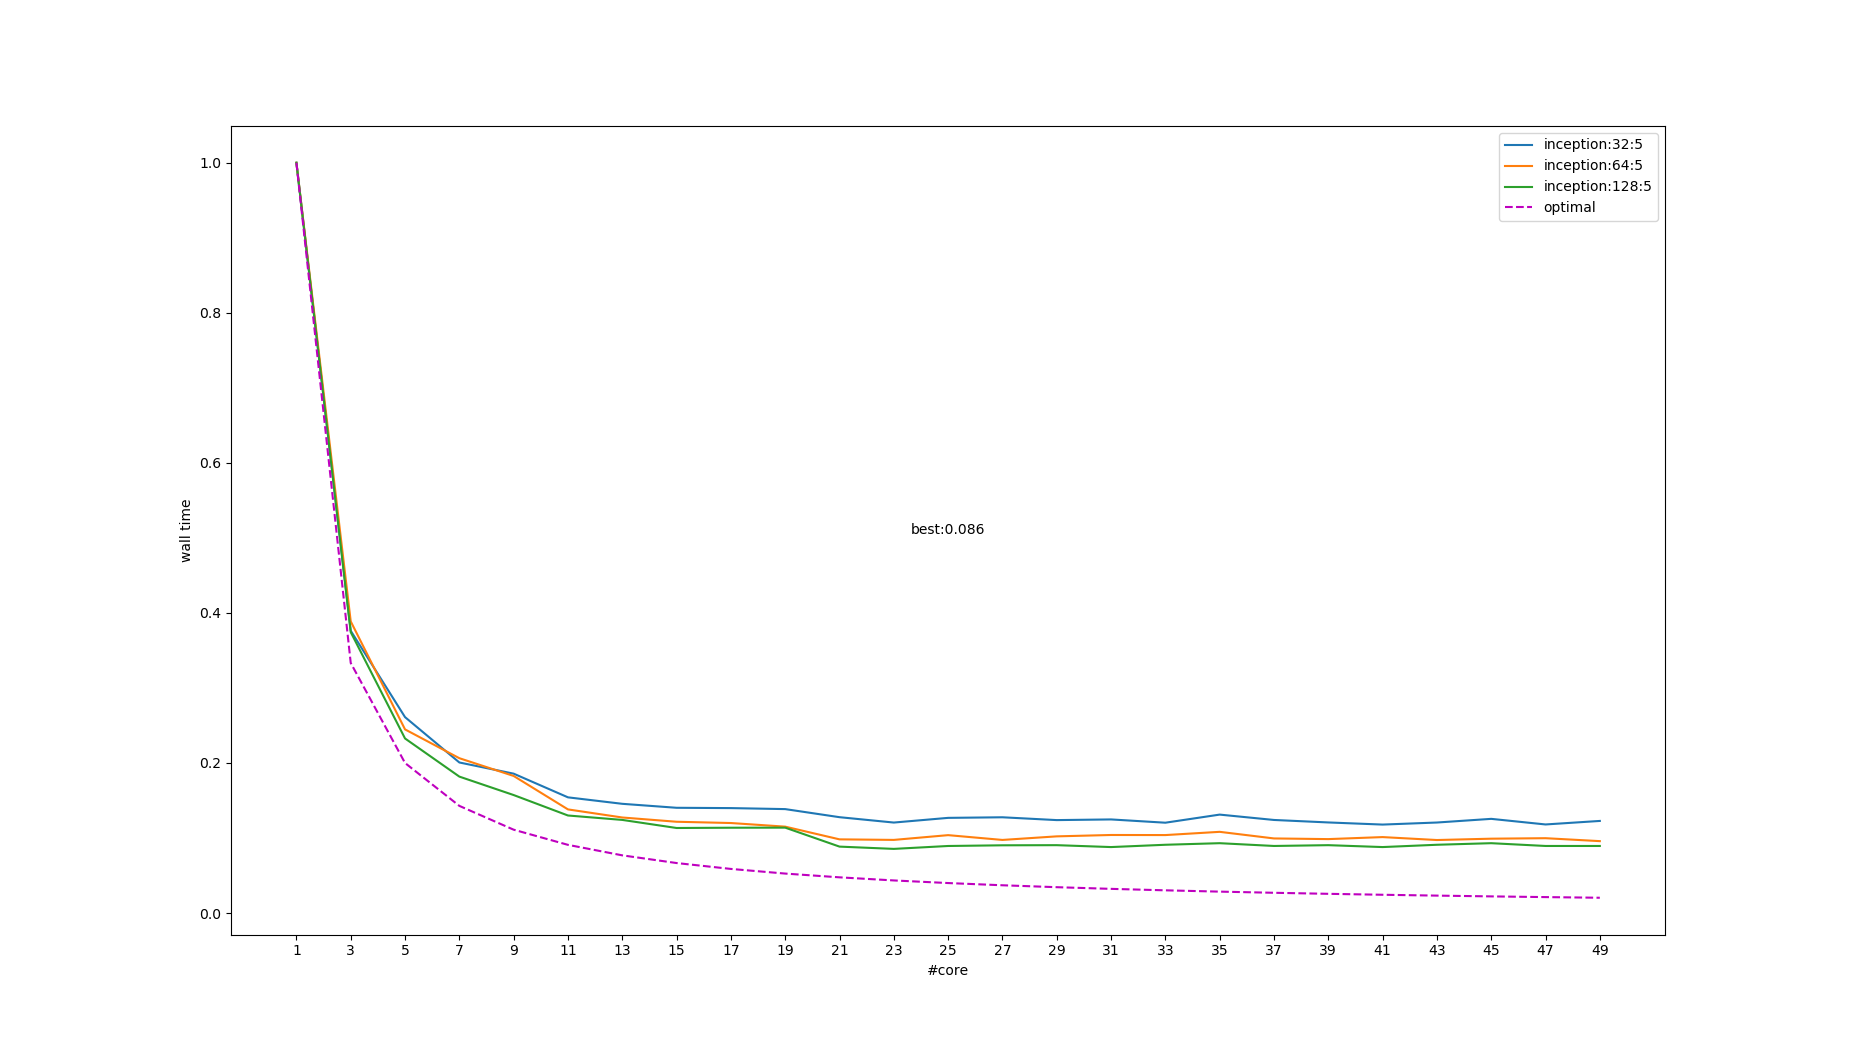
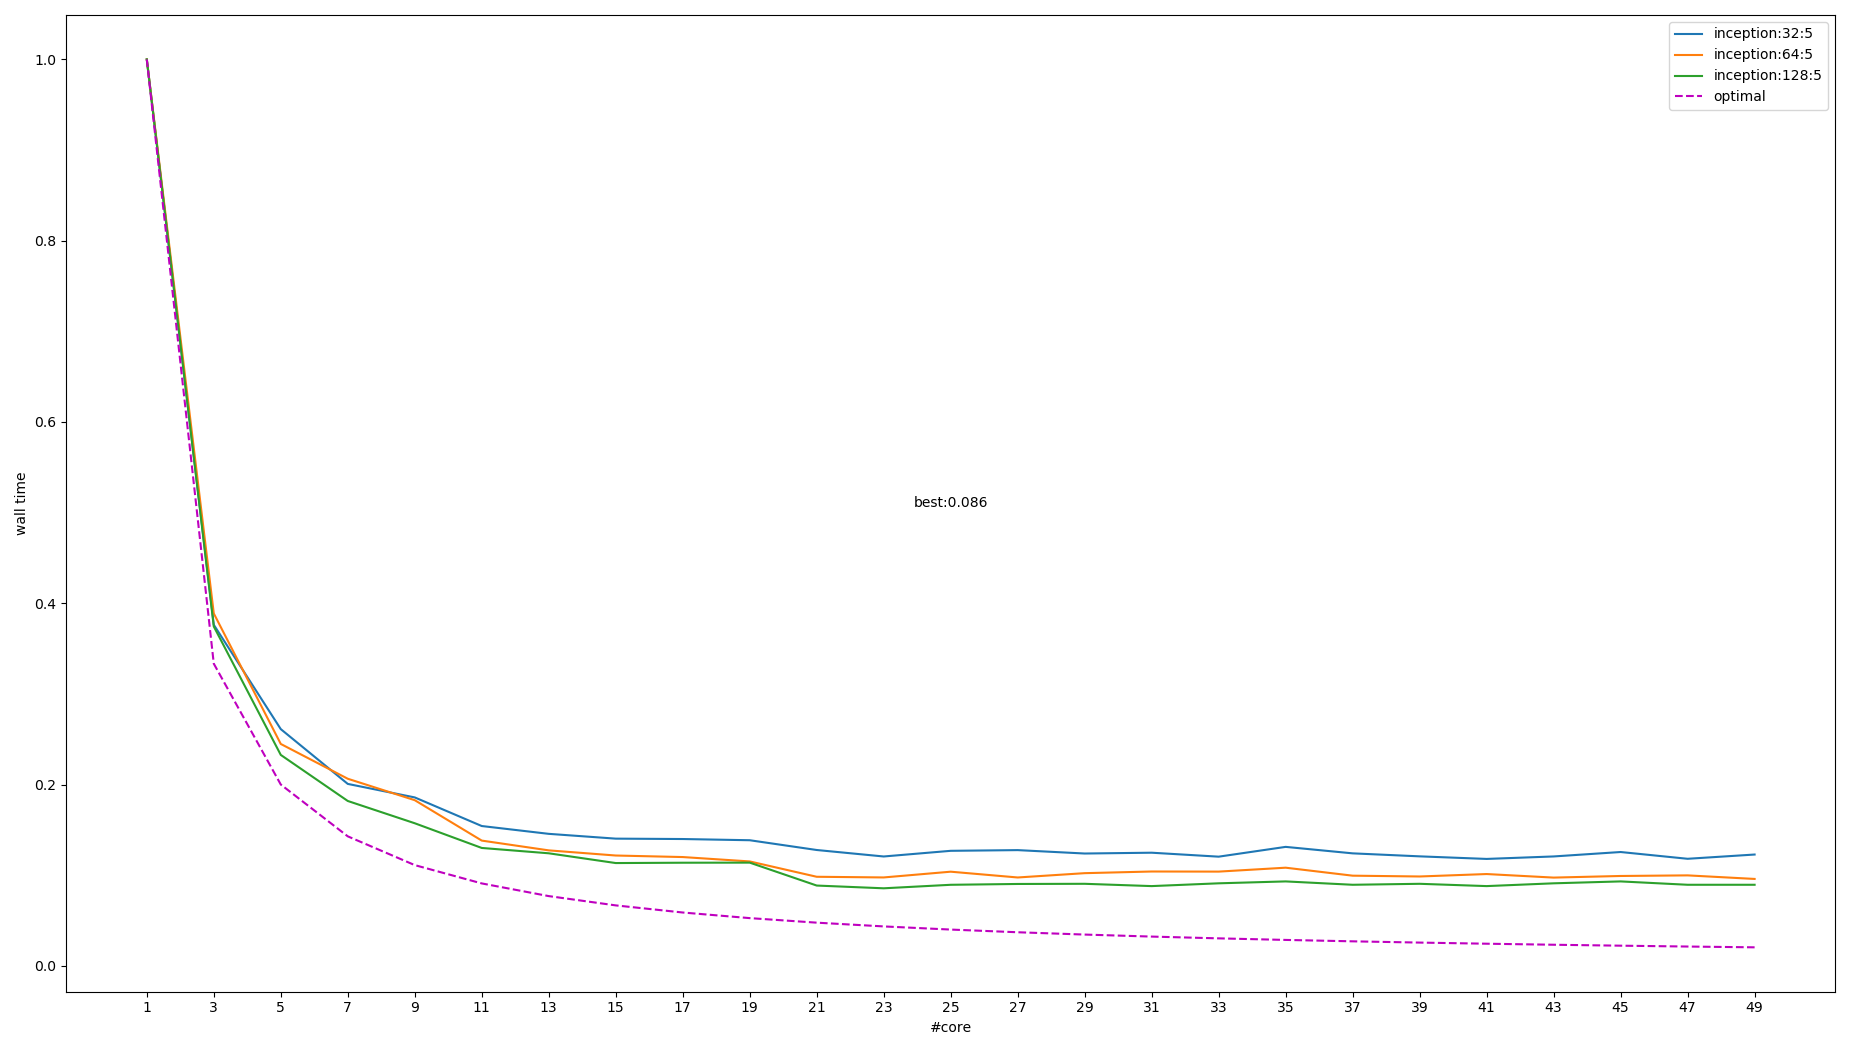
nil

diff --git a/distribute/common.py b/distribute/common.py
@@ -1,0 +1,43 @@
+#!/usr/bin/env python3
+# -*- coding: utf-8 -*-
+# 2022-11-03 11:17
+import tensorflow as tf
+def get_model():
+    model = tf.keras.models.Sequential(
+        [
+            # tf.keras.layers.Flatten(input_shape=(28, 28)),
+            tf.keras.layers.Reshape((28, 28, 1)),
+            tf.keras.layers.Conv2D(128, 5, padding="same", activation="relu"),
+            tf.keras.layers.Conv2D(128, 5, padding="same", activation="relu"),
+            tf.keras.layers.Conv2D(128, 5, padding="same", activation="relu"),
+            tf.keras.layers.Conv2D(128, 5, padding="same", activation="relu"),
+            tf.keras.layers.Dropout(0.2),
+            tf.keras.layers.Flatten(),
+            tf.keras.layers.Dense(10),
+        ]
+    )
+
+    model.compile(
+      loss=tf.keras.losses.SparseCategoricalCrossentropy(from_logits=True),
+      optimizer=tf.keras.optimizers.SGD(learning_rate=0.001),
+      metrics=['accuracy'])
+    return model
+
+import tensorflow_datasets as tfds
+tfds.disable_progress_bar()
+BUFFER_SIZE = 10000
+NUM_WORKERS = 2
+GLOBAL_BATCH_SIZE = 64 * NUM_WORKERS
+
+def get_datasets():
+  # 将 MNIST 数据从 (0, 255] 缩放到 (0., 1.]
+  def scale(image, label):
+    image = tf.cast(image, tf.float32)
+    image /= 255
+    return image, label
+
+  datasets, info = tfds.load(name='mnist',
+                            with_info=True,
+                            as_supervised=True)
+
+  return datasets['train'].map(scale).cache().shuffle(BUFFER_SIZE).batch(GLOBAL_BATCH_SIZE)

diff --git a/distribute/mirror_worker.py b/distribute/mirror_worker.py
@@ -1,0 +1,33 @@
+#!/usr/bin/env python3
+# -*- coding: utf-8 -*-
+# 2022-11-03 10:02
+
+import tensorflow_datasets as tfds
+import tensorflow as tf
+tfds.disable_progress_bar()
+
+tf.config.threading.set_inter_op_parallelism_threads(1)
+tf.config.threading.set_intra_op_parallelism_threads(1)
+
+import json
+import os
+import sys
+from common import * 
+
+os.environ['TF_CONFIG'] = json.dumps({
+    'cluster': {
+        'worker': ["localhost:12345", "localhost:23456"]
+    },
+    'task': {'type': 'worker', 'index': int(sys.argv[1])}
+})
+strategy = tf.distribute.MultiWorkerMirroredStrategy()
+
+train_datasets = get_datasets()
+options = tf.data.Options()
+options.experimental_distribute.auto_shard_policy = tf.data.experimental.AutoShardPolicy.DATA
+train_datasets = train_datasets.with_options(options)
+
+with strategy.scope():
+  multi_worker_model = get_model()
+
+multi_worker_model.fit(x=train_datasets, epochs=2, steps_per_epoch=5)

diff --git a/distribute/single.py b/distribute/single.py
@@ -1,0 +1,16 @@
+#!/usr/bin/env python3
+# -*- coding: utf-8 -*-
+# 2022-11-03 10:02
+
+import tensorflow as tf
+
+tf.config.threading.set_inter_op_parallelism_threads(1)
+tf.config.threading.set_intra_op_parallelism_threads(2)
+
+import json
+import os
+from common import *
+
+train_datasets = get_datasets()
+model = get_model()
+model.fit(x=train_datasets, epochs=2, steps_per_epoch=5)

diff --git a/check.py b/check.py
@@ -66,7 +66,9 @@ for i, (k, v) in enumerate(stat.items()):
     axs2[i].set_ylabel("cpu time")
 
 fig.set_size_inches(18.5, 10.5)
+fig.tight_layout()
 fig.savefig(f"{sys.argv[1][:-4]}.png")
 
 fig2.set_size_inches(18.5, 10.5)
+fig2.tight_layout()
 fig2.savefig(f"{sys.argv[1][:-4]}.2.png")
